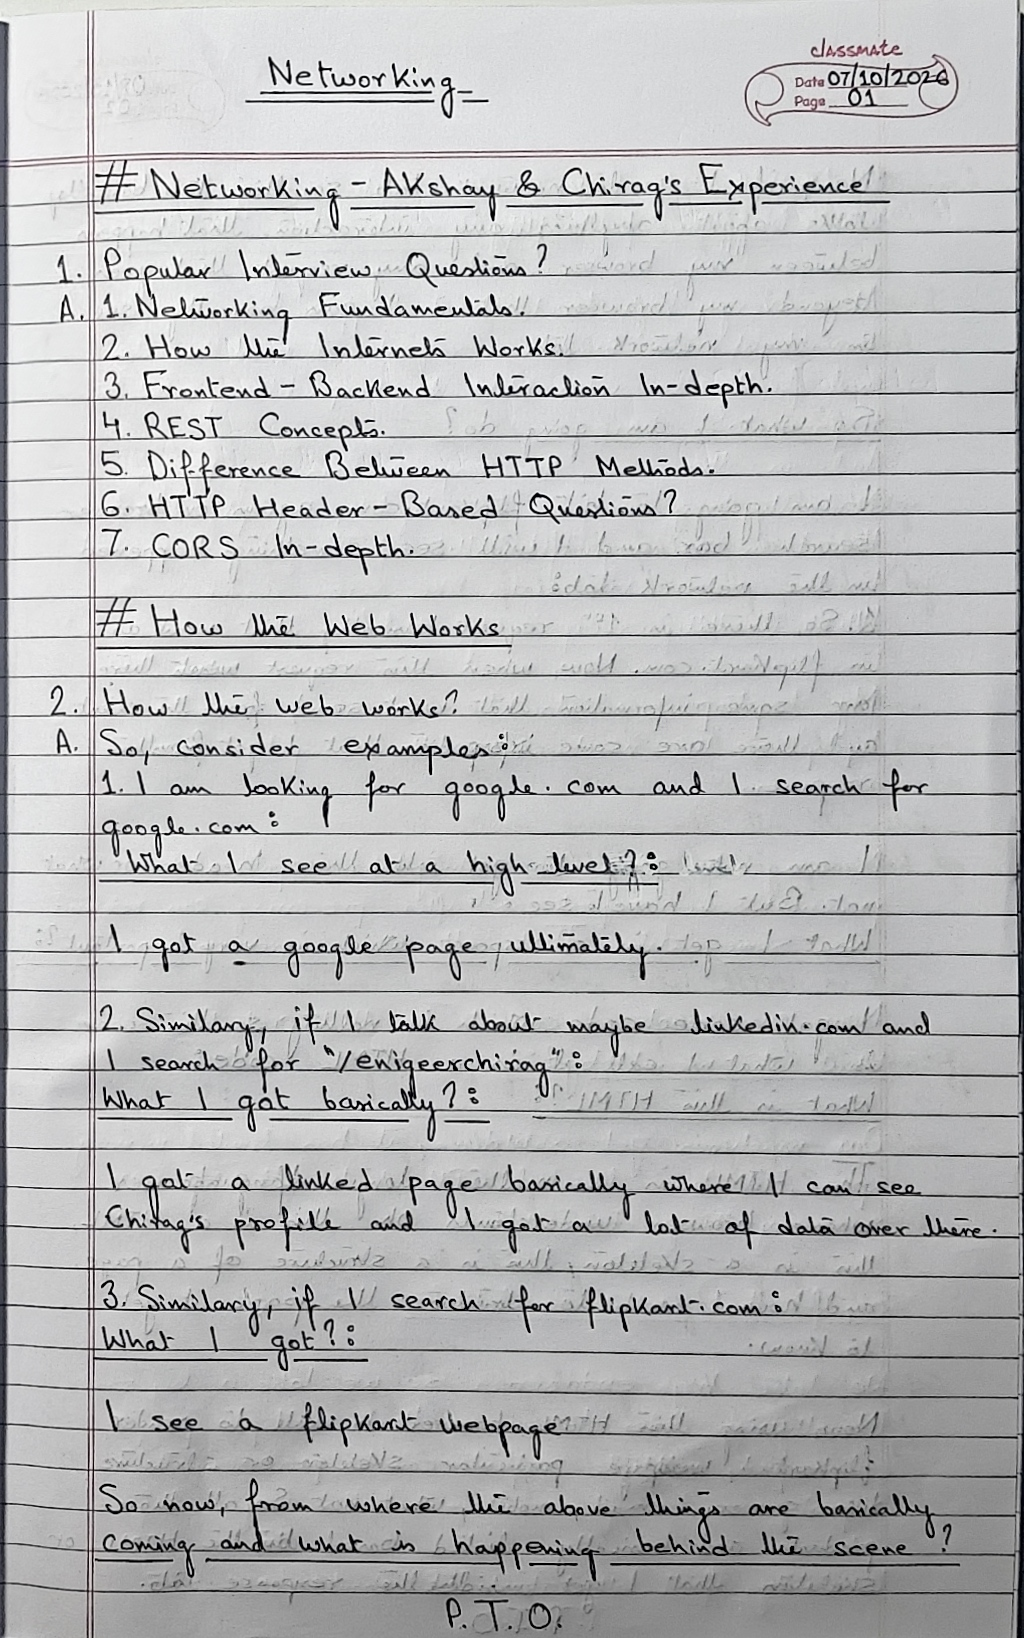
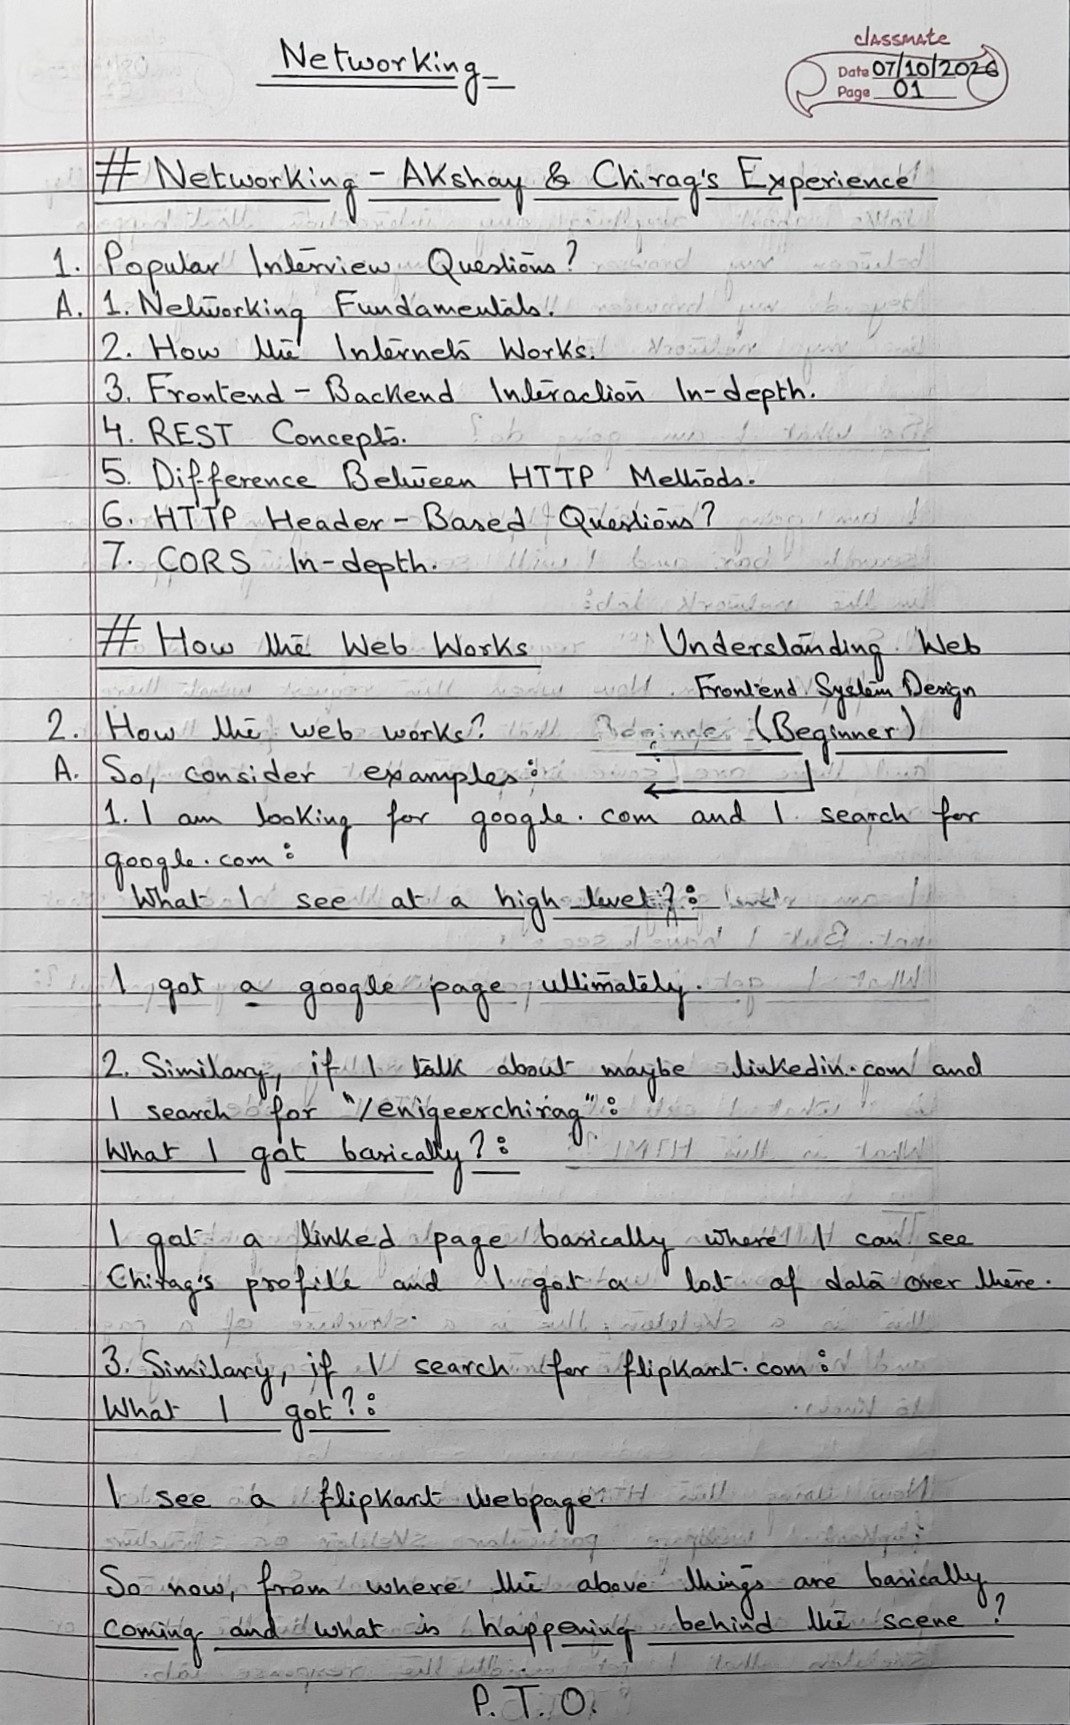
Expand networking notes and add volume pages
Add new Volume 1 note images, replace outdated scans, and expand the web networking notes with content on data packets, browser and ISP caching, peering, and Netflix's content delivery strategy.

Changed region(s): [[0.0, 0.0, 1.0, 1.0]]

diff --git a/src/networking/how-the-web-works/README.md b/src/networking/how-the-web-works/README.md
@@ -909,4 +909,213 @@ So, I have global ISPs, regional ISPs, and I have some local ISPs which helps me
 
 So, I am seeing how many hops do we have in order to get the internet and the site which I am looking for. I search `google.com`; basically, it is coming from so many places across the world.
 
-The right-hand page in the last supplied image is blank; no written content is visible to transcribe.
+Whenever I search on the internet, fiber optics help me travel the data at approximately the speed of light. Hence, I see how far away, basically, at a blink of my eye, I get the data.
+
+Now, a few more things I wanted to dig deeper into:
+
+## How exactly does data travel in such cases?
+
+Suppose I am looking for some data from my home to some other country altogether, as I am sending something to another country.
+
+How does the data flow?
+
+Whenever I am looking for data, maybe if I want to get data from my own country, it can be done in a very easy format. But what if I want to get data from another country altogether? Then how does the data basically flow? I have to understand this more deeply.
+
+## Flows: I have to understand this more deeply
+
+Now, my request basically goes using:
+
+**Local ISP → Regional ISP → Global ISPs → Regional ISPs of the different country → Local ISP → the place where the server or anything resides.**
+
+Now, data has to come back. Data does not come back like I have a big parcel or a big bed or an aeroplane getting shipped from one country to another country, and it does not get shipped as an unassembled one. It gets shipped as a distributed one.
+
+When I say distributed, it gets distributed into multiple small parts, or **data packets**.
+
+These data packets basically flow back in all possible ways in order to reach my destination. There can be multiple such paths, basically taking me to the destination. I get these packets from different routes, and finally they get assembled at my local ISP / client side.
+
+Now, I have all this data. I have to understand what other things are happening, meaning the cool things which are happening.
+
+## Example: payment confirmation
+
+Consider an example: I am doing a payment, and now my payment confirmation, basically that acknowledgement, is coming from a data packet from multiple different places to me.
+
+What if some data is lost? What happens if I get a partial confirmation? What if sometimes I get a message like, “Oh, my payment is still processing; please come back in 5 minutes”? How horrible are these five minutes in our lives?
+
+That is why understanding these small, small parts and small, small hubs is useful.
+
+Where can I optimize? What can I optimize? What can I optimize at the different levels?
+
+I am going to talk even at the advanced level about what billion-people-scale infrastructure, like Google or Netflix, does in order to provide very smooth streaming or data transmission, and the other things these companies do.
+
+They try to optimize and understand each of these parts in a very refined and better way. This helps them enrich or tweak some parts, or take advantage of these small parts, in order to provide me the best experience they can.
+
+## 3. So, till now: what have I seen and talked about?
+
+How things basically work from my computer to the router, from the router to the ISP, and from the ISP it goes to DNS. DNS returns me the IP, and using that IP I reach out to the server in order to get my HTML, CSS, JavaScript, and finally the rendering into the browser. That is what I have seen.
+
+That is why understanding the small, small parts is useful: where can I optimize, and what can I optimize at the different levels?
+
+I am going to talk even at the advanced level about what billion-people-scale infrastructure, like Google or Netflix, does in order to provide a very smooth transmission or data transformation, and the other things these companies are doing.
+
+They try to optimize and understand each of these parts in a very refined and better way. This helps them enrich or tweak some parts, or take advantage of the small parts, in order to provide me the best experience they can.
+
+It's time to drill further into each and every part.
+
+## 1. The first part: when I type a domain
+
+When I type something like `google.com`, `linkedin.com`, etc., what am I doing?
+
+I think that I am making a request directly to the router. No! There are many steps that happen in the browser itself.
+
+What are those things?
+
+In the browser, many things happen on my laptop before the request even reaches the router.
+
+The first thing that happens on my computer or laptop is that it tries to check in my browser whether it has any cache related to the IP or the domain I am looking for.
+
+In case I have it, it is not going to make any request to my server.
+
+It also checks about **Service Worker**: does the Service Worker have any cache? There can be multiple types of cache that can exist:
+
+1. At my browser: the **Network layer** and **HTTP layer**.
+2. At the **Service Worker layer** as well.
+
+### B. What if the cache is not found in the browser?
+
+Then it will go and make a check in the operating system. Do you know?
+
+In the operating system also, I can go and tweak the host and the IP address mapping.
+
+## What does it mean?
+
+I can say `google.com` points to my local host `3000` port, where my application will be bounded when I open that.
+
+### C. What if I cache something in the operating system? What do I do?
+
+I basically go to the router. Nowadays, even my routers are very smart: they have mapping or cache and lots of other things, so my domain-to-IP-address mapping can actually be stored in my routers too.
+
+Sometimes it is recommended to restart my router in order to refresh the settings.
+
+These kinds of things are supported by routers.
+
+### D. ISP-level caching
+
+At an ISP level, there is a different kind of caching that is supported. A lot of power basically comes at an ISP level.
+
+So, what I am going to do is first understand what I can actually do at a browser level.
+
+Let's see: I am going to a site called **`service-worker-stale-while-revalidate.glitch.me`**, which is a Service Worker-related website. I will go into the Network layer of this.
+
+Inside the Network layer, I will do a hard reload of this particular website. Whenever I do that, I should see it render a few things.
+
+## From where am I getting this data?
+
+1. The first data I got has **status 304**. Basically, it says that the data went to the server and the server said there is no change. I already had that data, so we use what I am already having. It is using and consuming the data which is already in the browser.
+
+2. If I notice there are a few statuses which say **200**, I ask: from where is this data coming?
+
+The data is actually coming from a **Service Worker**. This is something interesting.
+
+What does it mean? Is it even possible for data to come from a Service Worker?
+
+Let's try to dig deeper. When I hover on the Service Worker entry and look at the Network track, what am I seeing?
+
+The first fundamental thing I need to understand quickly is what happens when a browser makes a request.
+
+When an application makes a network request, there can be a maximum of around **3, 6, 8, or 10** requests, depending on the browser. The browser only makes that number of parallel requests.
+
+Any request beyond that is actually queued. The browser has a queuing mechanism, and the exact behavior depends on browser-to-browser support. The notes mention support for parallelism of **6 to 8 requests**.
+
+So, the browser queues any request that comes beyond that.
+
+In this case, all requests beyond that go to the queue mechanism. This request also went to the queue, but it was triggered to the Network layer very quickly because there was nothing in the queue.
+
+I see it took hardly **0.18 ms** for the confirmation to get done from the queue. I need to get something essential.
+
+Now, I notice there are multiple steps, but I want to highlight one interesting thing: it went to something called the **Service Worker** step.
+
+In Service Worker, it actually did a standby, and there was some wait of **10 ms**, basically. To be precise, I see it responded in **1.24 ms**. It got the response from the Service Worker and did not make any request to the server.
+
+**Note:** In this particular case, the Service Worker actually responded with data in **1.24 ms**.
+
+Can I ever imagine that I get data from my server in 1.24 ms?
+
+It is not possible, but I am caching / having some strategy in my Service Worker where I can say, “This is the API or this is the asset I wanted to cache.”
+
+This is where I can cache and leverage the cache, and render my application much faster.
+
+There are certain things coming from **disk cache** too. Disk cache basically comes from my browser cache as well.
+
+Let's talk about something different: **ISP**. The ISP is not just a provider that gives me the internet, or a proxy that gets me the IP address and lets me make a request to a server.
+
+No! An ISP does a lot more than I can think of.
+
+## What happens at the ISP layer?
+
+Let's dig deeper. At the ISP layer there are multiple concepts that are very popular. One of the concepts I want to highlight is called **peering**.
+
+### What does peering mean?
+
+I had talked about scenarios where, suppose, I am making a request from my own country, which is Belgium, and I am making a request to the USA.
+
+I talked about how, if the server is sitting in the other country, it has to go through multiple networks.
+
+…country, then it has to go through my local ISP. It has to go through a Regional ISP, a Global ISP, multiple global ISPs, and then Regional and Local ISPs. I actually get the data from my server, which is residing on the other side.
+
+Now, all of these take time.
+
+## What Google and other large companies started doing
+
+They started trying to optimize certain things.
+
+### What did they do?
+
+Instead of having a server sitting in different countries, they set up data centers in different countries themselves, so that I don't have to make a cross-country or cross-network request.
+
+But it is not limited to that. I am not just talking about cloud computing; I also have **CDNs**, which are sitting in different regions.
+
+I am talking beyond that. What does it mean?
+
+Even if I say this Google server resides over there, ideally it has to go through a Regional ISP, and from there it actually goes to the server in order to make the request. That is the normal flow.
+
+But many such companies like Google have established a mechanism where they can directly bypass my Regional ISP and directly connect to my Local ISP. Inside that, it can actually work as just a proxy to reach my home router, computers, or laptops.
+
+What is this technique called, where I don't have to go through so much processing time?
+
+It can work as a proxy to make this extra hop and reduce the extra hop. That technique is called **peering**.
+
+Google has done this very smartly. It established a peering arrangement where the number of hops gets reduced, and the videos and data streamed to my end are much faster. That is a useful technique.
+
+Now, I will tell one more strategy that companies like Netflix started doing.
+
+## What does Netflix do?
+
+Similar to Netflix, I will go to the ISP. The flow described in the notes is: first I get the domain, then the IP; when I hit the server, I get the data, and finally that data is shown to the user, such as videos.
+
+But Netflix wanted to provide a next-level user experience.
+
+It started asking: instead of sending all the requests and doing back-and-forth, why don't you provide me with a hosting platform where I can host my data? I will keep my data
+
+I will keep my videos, and you can stream those videos directly. You don't have to go through my domain, ISP, and all sorts of things.
+
+Many things can be avoided by putting the data at the ISP, renting some space, and leveraging that in order to stream and serve the data.
+
+As I am talking about ISPs, ISPs internally started doing something: keeping data at a regional or sometimes local level, depending on how many users there are or how much data is required at a particular hub or area.
+
+These kinds of optimizations are things I think companies like Google and Netflix are doing in order to make our streaming experience smoother, including streaming data access and how I actually operate on the web.
+
+Basically, Google and Netflix are great companies working in these directions.
+
+One thing I talked about is domain and IP address mapping. That is good.
+
+Let's try to understand more concepts around that.
+
+There is a company and an authorization or authority, which is called **ICANN (Internet Corporation for Assigned Names and Numbers)**.
+
+This ICANN authority helps to decide a guideline
+
+…basically, so what happens in this domain and IP mapping. I also talked about the root domain and all sorts of things.
+
+## Who governs that?
+
+The page ends with this question. No further answer is written on the supplied page.
